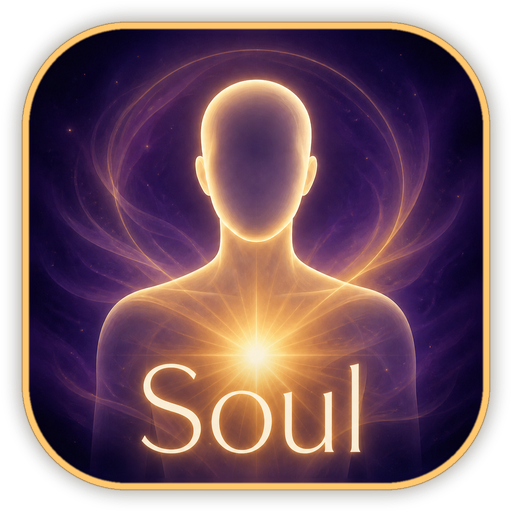
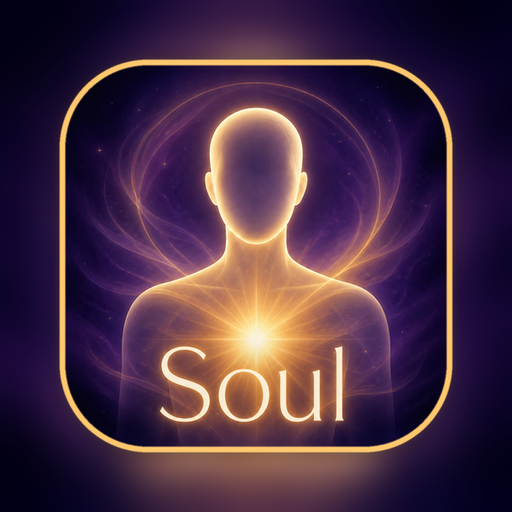
Icoană sigură pentru toate telefoanele Android (bordura nu mai e tăiată)
Claude-Session: https://claude.ai/code/session_01PCZtj2iNJxFCPy5tpssiRy

diff --git a/index.html b/index.html
@@ -1,4 +1,4 @@
-<!doctype html><html lang="ro"><head><meta charset="utf-8"><meta name="viewport" content="width=device-width,initial-scale=1,viewport-fit=cover"><meta name="theme-color" content="#0e1424"><meta name="mobile-web-app-capable" content="yes"><meta name="apple-mobile-web-app-capable" content="yes"><meta name="apple-mobile-web-app-title" content="SOUL"><meta name="apple-mobile-web-app-status-bar-style" content="black-translucent"><link rel="manifest" href="manifest.webmanifest"><link rel="apple-touch-icon" href="icons/apple-touch-icon.png?v=7"><link rel="icon" href="icons/icon-192.png?v=7"><title>SOUL — Your Peaceful Place</title>
+<!doctype html><html lang="ro"><head><meta charset="utf-8"><meta name="viewport" content="width=device-width,initial-scale=1,viewport-fit=cover"><meta name="theme-color" content="#0e1424"><meta name="mobile-web-app-capable" content="yes"><meta name="apple-mobile-web-app-capable" content="yes"><meta name="apple-mobile-web-app-title" content="SOUL"><meta name="apple-mobile-web-app-status-bar-style" content="black-translucent"><link rel="manifest" href="manifest.webmanifest"><link rel="apple-touch-icon" href="icons/apple-touch-icon.png?v=8"><link rel="icon" href="icons/icon-192.png?v=8"><title>SOUL — Your Peaceful Place</title>
 <meta name="claude:viewport-fit-sides" content="cover">
 <link rel="stylesheet" href="https://fonts.googleapis.com/css2?family=Cormorant+Garamond:ital,wght@0,400;0,500;0,600;1,400&family=Nunito:wght@300;400;600&display=swap">
 <style>

diff --git a/sw.js b/sw.js
@@ -1,5 +1,5 @@
 // SOUL service worker: makes the app open offline. Bump VERSION after changing index.html.
-const VERSION = 'soul-v7';
+const VERSION = 'soul-v8';
 const SHELL = ['./', 'index.html', 'manifest.webmanifest', 'icons/icon-192.png', 'icons/icon-512.png', 'icons/apple-touch-icon.png'];
 self.addEventListener('install', e => { e.waitUntil(caches.open(VERSION).then(c => c.addAll(SHELL)).then(() => self.skipWaiting())); });
 self.addEventListener('activate', e => { e.waitUntil(caches.keys().then(ks => Promise.all(ks.filter(k => k !== VERSION).map(k => caches.delete(k)))).then(() => self.clients.claim())); });
